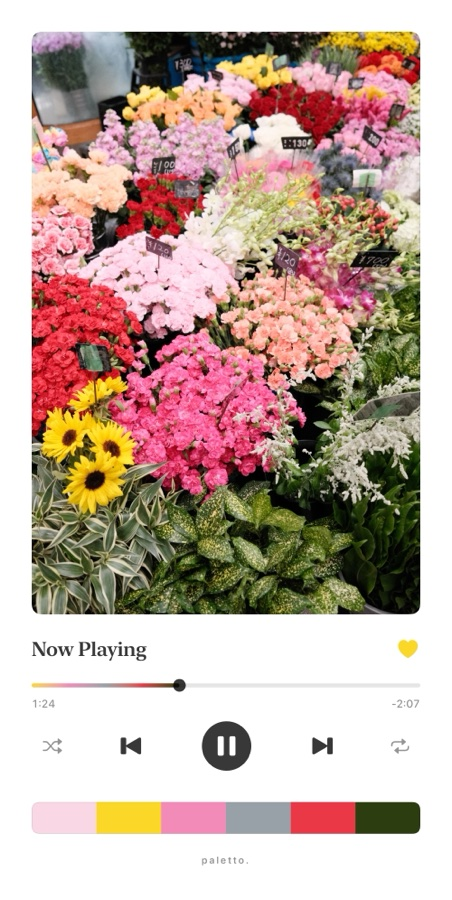
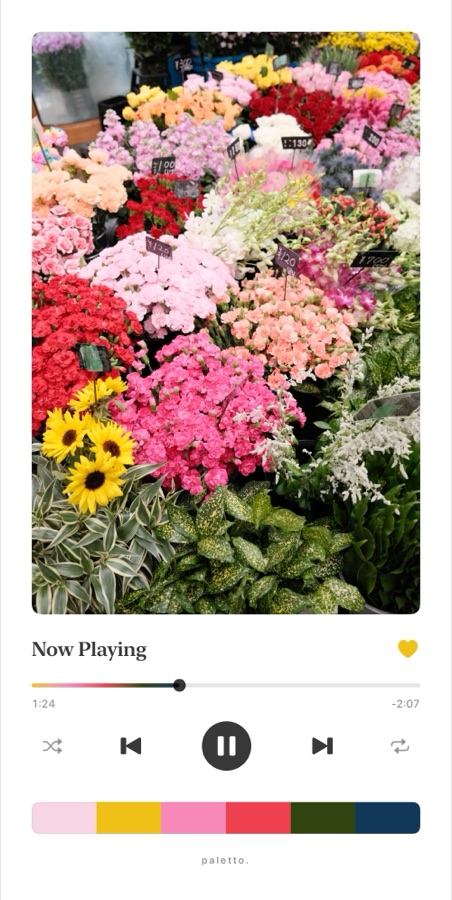
Update site

Changed region(s): [[0.4956, 0.8711, 0.9292, 0.9333], [0.1858, 0.7467, 0.3717, 0.7778]]

diff --git a/index.html b/index.html
@@ -146,19 +146,19 @@
   <section id="frames" class="wall">
     <div class="wrap">
       <p class="kicker">Frames</p>
-      <h2 class="reveal">One photo. Every mood.</h2>
-      <p class="lede reveal">Classic white, a film strip, a record sleeve, a garden. Swipe through the frames and watch the palette follow.</p>
+      <h2 class="reveal">A frame for every photo.</h2>
+      <p class="lede reveal">Classic white, a film strip, a record sleeve, a garden, a gingham tablecloth. Swipe through the frames and watch the palette follow.</p>
     </div>
     <div class="rail" tabindex="0" aria-label="Frame styles">
-      <figure><img src="img/study-in-color.jpg" width="528" height="900" loading="lazy" alt="Flowers in the Paletto signature frame"><figcaption><b>Paletto</b> · signature</figcaption></figure>
-      <figure><img src="img/film-flowers.jpg" width="531" height="900" loading="lazy" alt="Flowers in a film-strip frame"><figcaption><b>Film</b> · Shot on Film</figcaption></figure>
-      <figure><img src="img/music-flowers.jpg" width="452" height="900" loading="lazy" alt="Flowers in a music player frame"><figcaption><b>Music</b> · Now Playing</figcaption></figure>
-      <figure><img src="img/bloom-flowers.jpg" width="530" height="900" loading="lazy" alt="Flowers in a botanical frame"><figcaption><b>Botanical</b> · In Bloom</figcaption></figure>
-      <figure><img src="img/foodie-camel.jpg" width="465" height="900" loading="lazy" alt="Camel in the Sahara in a gingham frame"><figcaption><b>Foodie</b> · Bon Appétit</figcaption></figure>
-      <figure><img src="img/film-camel.jpg" width="467" height="900" loading="lazy" alt="Camel in the Sahara in a film-strip frame"><figcaption><b>Film</b></figcaption></figure>
-      <figure><img src="img/acropolis.jpg" width="550" height="900" loading="lazy" alt="The Acropolis in a classic white matte"><figcaption><b>Classic</b> · free</figcaption></figure>
+      <figure><img src="img/paletto-lugano.jpg" width="911" height="900" loading="lazy" alt="Lake Lugano in the Paletto signature frame, captioned A Study in Color"><figcaption><b>Paletto</b> · signature</figcaption></figure>
+      <figure><img src="img/film-acropolis.jpg" width="531" height="900" loading="lazy" alt="The Acropolis in a film-strip frame"><figcaption><b>Film</b> · Shot on Film</figcaption></figure>
+      <figure><img src="img/music-flowers.jpg" width="452" height="900" loading="lazy" alt="Tokyo flower stall in a music player frame"><figcaption><b>Music</b> · Now Playing</figcaption></figure>
+      <figure><img src="img/bloom-bougainvillea.jpg" width="530" height="900" loading="lazy" alt="Pink house with bougainvillea in a botanical frame"><figcaption><b>Botanical</b> · In Bloom</figcaption></figure>
+      <figure><img src="img/foodie-fruit.jpg" width="915" height="900" loading="lazy" alt="Fruit cart in Ho Chi Minh City in a gingham frame"><figcaption><b>Foodie</b> · Bon Appétit</figcaption></figure>
+      <figure><img src="img/safari-camel.jpg" width="465" height="900" loading="lazy" alt="Camel in the Sahara in a safari frame"><figcaption><b>Safari</b> · Into the Wild</figcaption></figure>
+      <figure><img src="img/classic-sagrada.jpg" width="1082" height="900" loading="lazy" alt="Stained glass in the Sagrada Família in a classic white matte"><figcaption><b>Classic</b> · free</figcaption></figure>
     </div>
-    <div class="wrap"><p class="fine">Plus Safari, Surf, Travel, Space, Camping, Pets, and seasonal mattes from Halloween to Lunar New Year.</p></div>
+    <div class="wrap"><p class="fine">Plus Surf, Travel, Space, Camping, Pets, and seasonal mattes from Halloween to Lunar New Year.</p></div>
   </section>
 
   <!-- Boards -->
